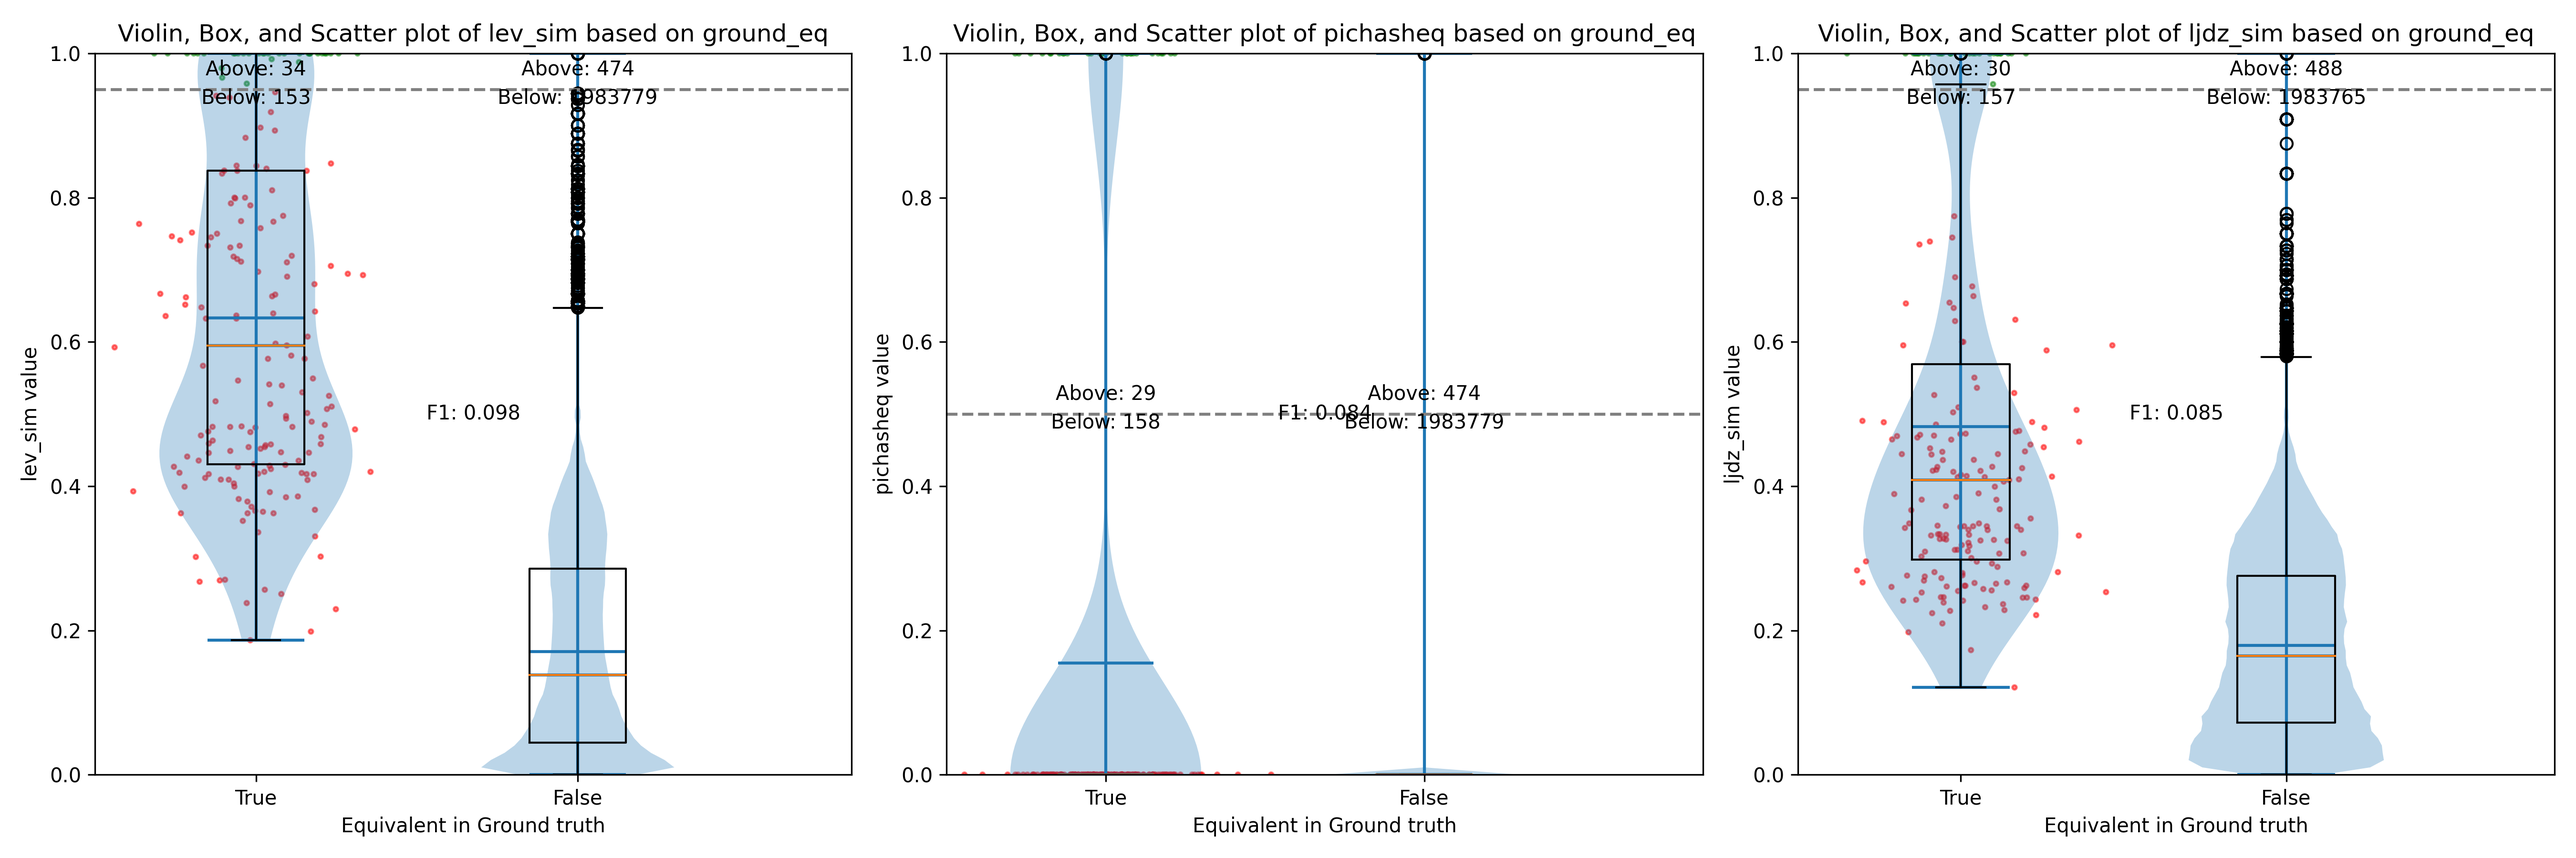
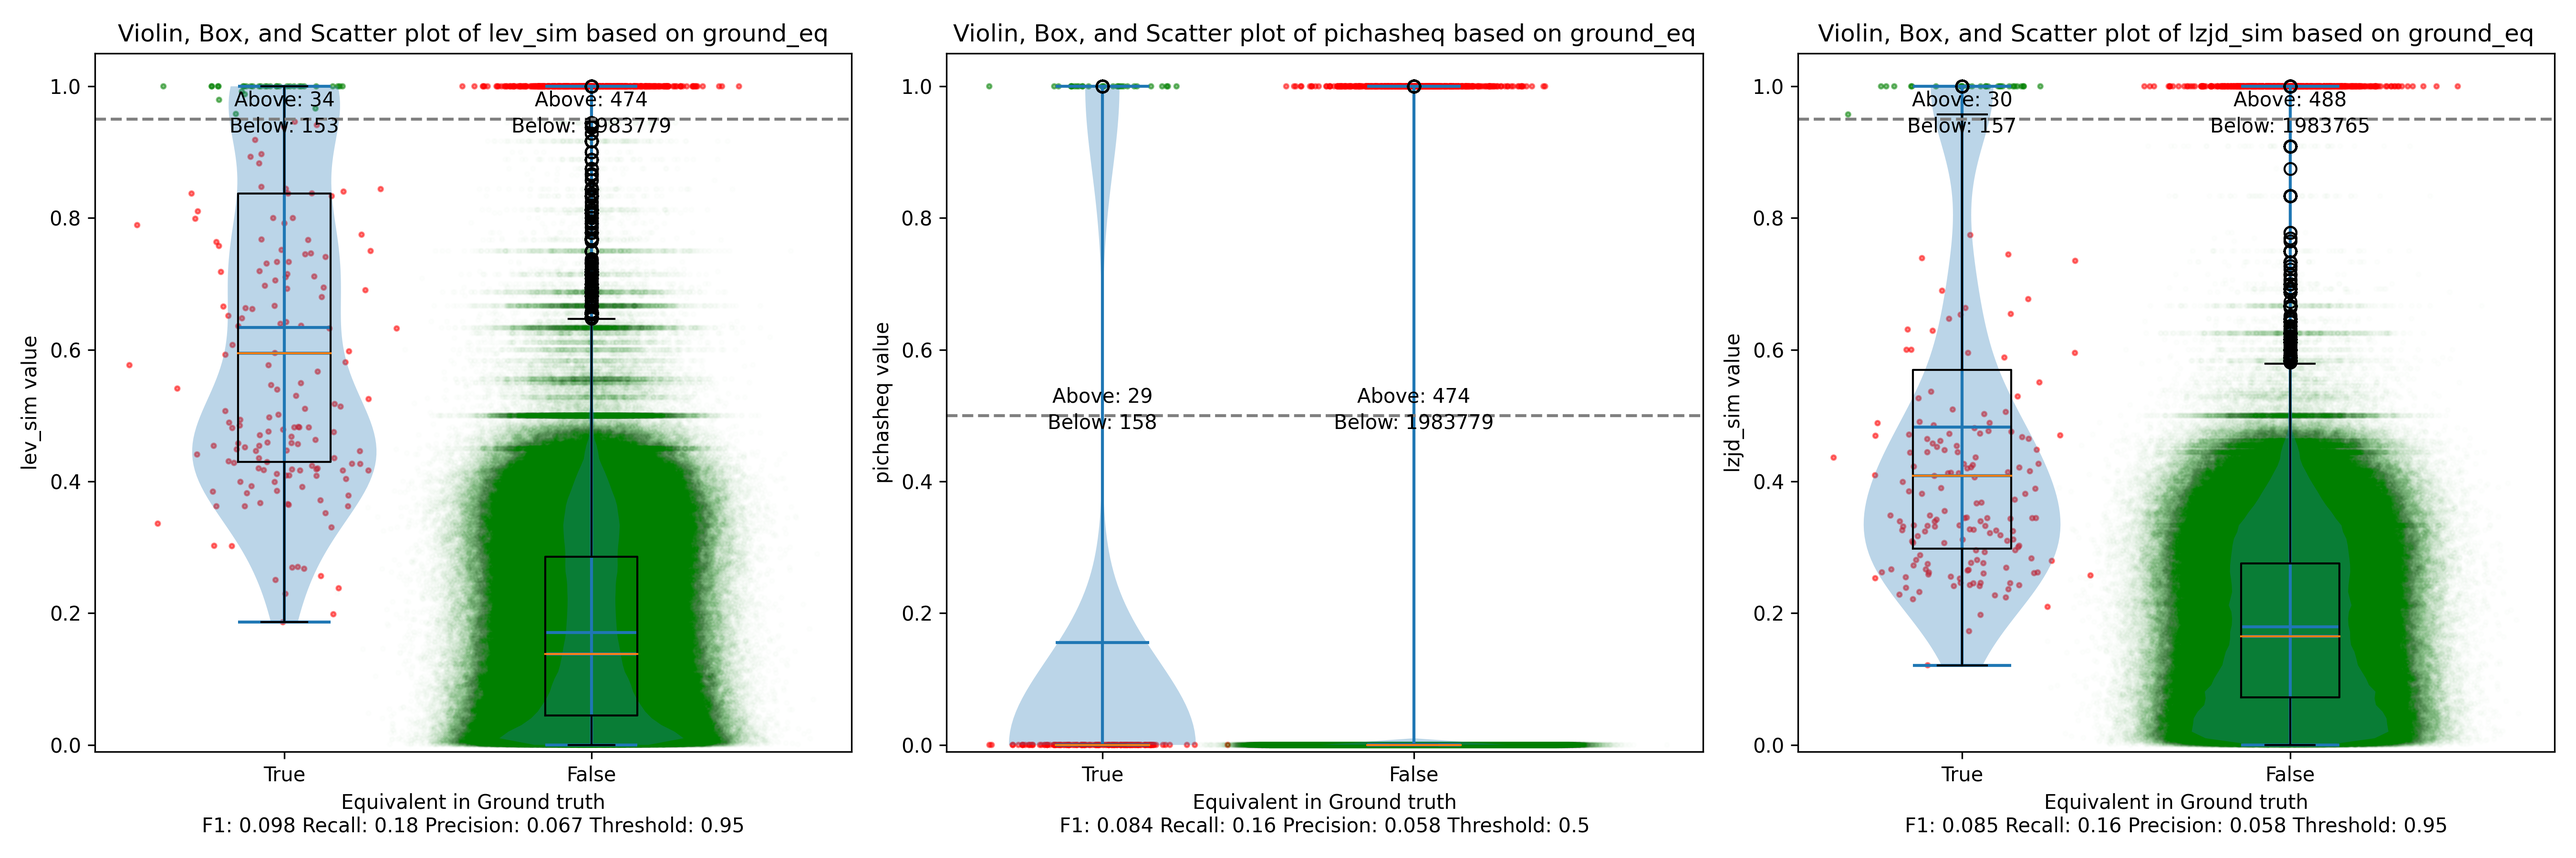
Update

diff --git a/lzjd-script.py b/lzjd-script.py
@@ -517,7 +517,13 @@ def violin_plot(data, fname):
         # Jittered scatter plots with custom colors
         axes[idx].scatter(jitter_points(data[0], positions[0]), data[0], marker='o', color=get_colors(data[0], True, threshold), s=5, alpha=0.5)
 
-        axes[idx].scatter(jitter_points(data[1], positions[1]), data[1], marker='o', color=get_colors(data[1], False, threshold), s=5, alpha=0.0075)
+        data1_below = [d for d in data[1] if d <= threshold]
+        data1_above = [d for d in data[1] if d > threshold]
+
+        # Separate data to change alpha.  We want the lower right to be very see
+        # through, and everything else to be more opaque.
+        axes[idx].scatter(jitter_points(data1_below, positions[1]), data1_below, marker='o', color=get_colors(data1_below, False, threshold), s=5, alpha=0.0075)
+        axes[idx].scatter(jitter_points(data1_above, positions[1]), data1_above, marker='o', color=get_colors(data1_above, False, threshold), s=5, alpha=0.5)
 
         # Violin plot
         axes[idx].violinplot(data, showmeans=True, showmedians=True, positions=positions, widths=0.6)
@@ -544,7 +550,7 @@ def violin_plot(data, fname):
         axes[idx].set_xlabel(f'Equivalent in Ground truth\nF1: {f1:.2} Recall: {recall:.2} Precision: {precision:.2} Threshold: {threshold:.2}')
         axes[idx].set_xticks(positions)
         axes[idx].set_xticklabels(['True', 'False'])
-        axes[idx].set_ylim(0, 1.05)
+        axes[idx].set_ylim(-0.01, 1.05)
 
     plt.tight_layout()
 
